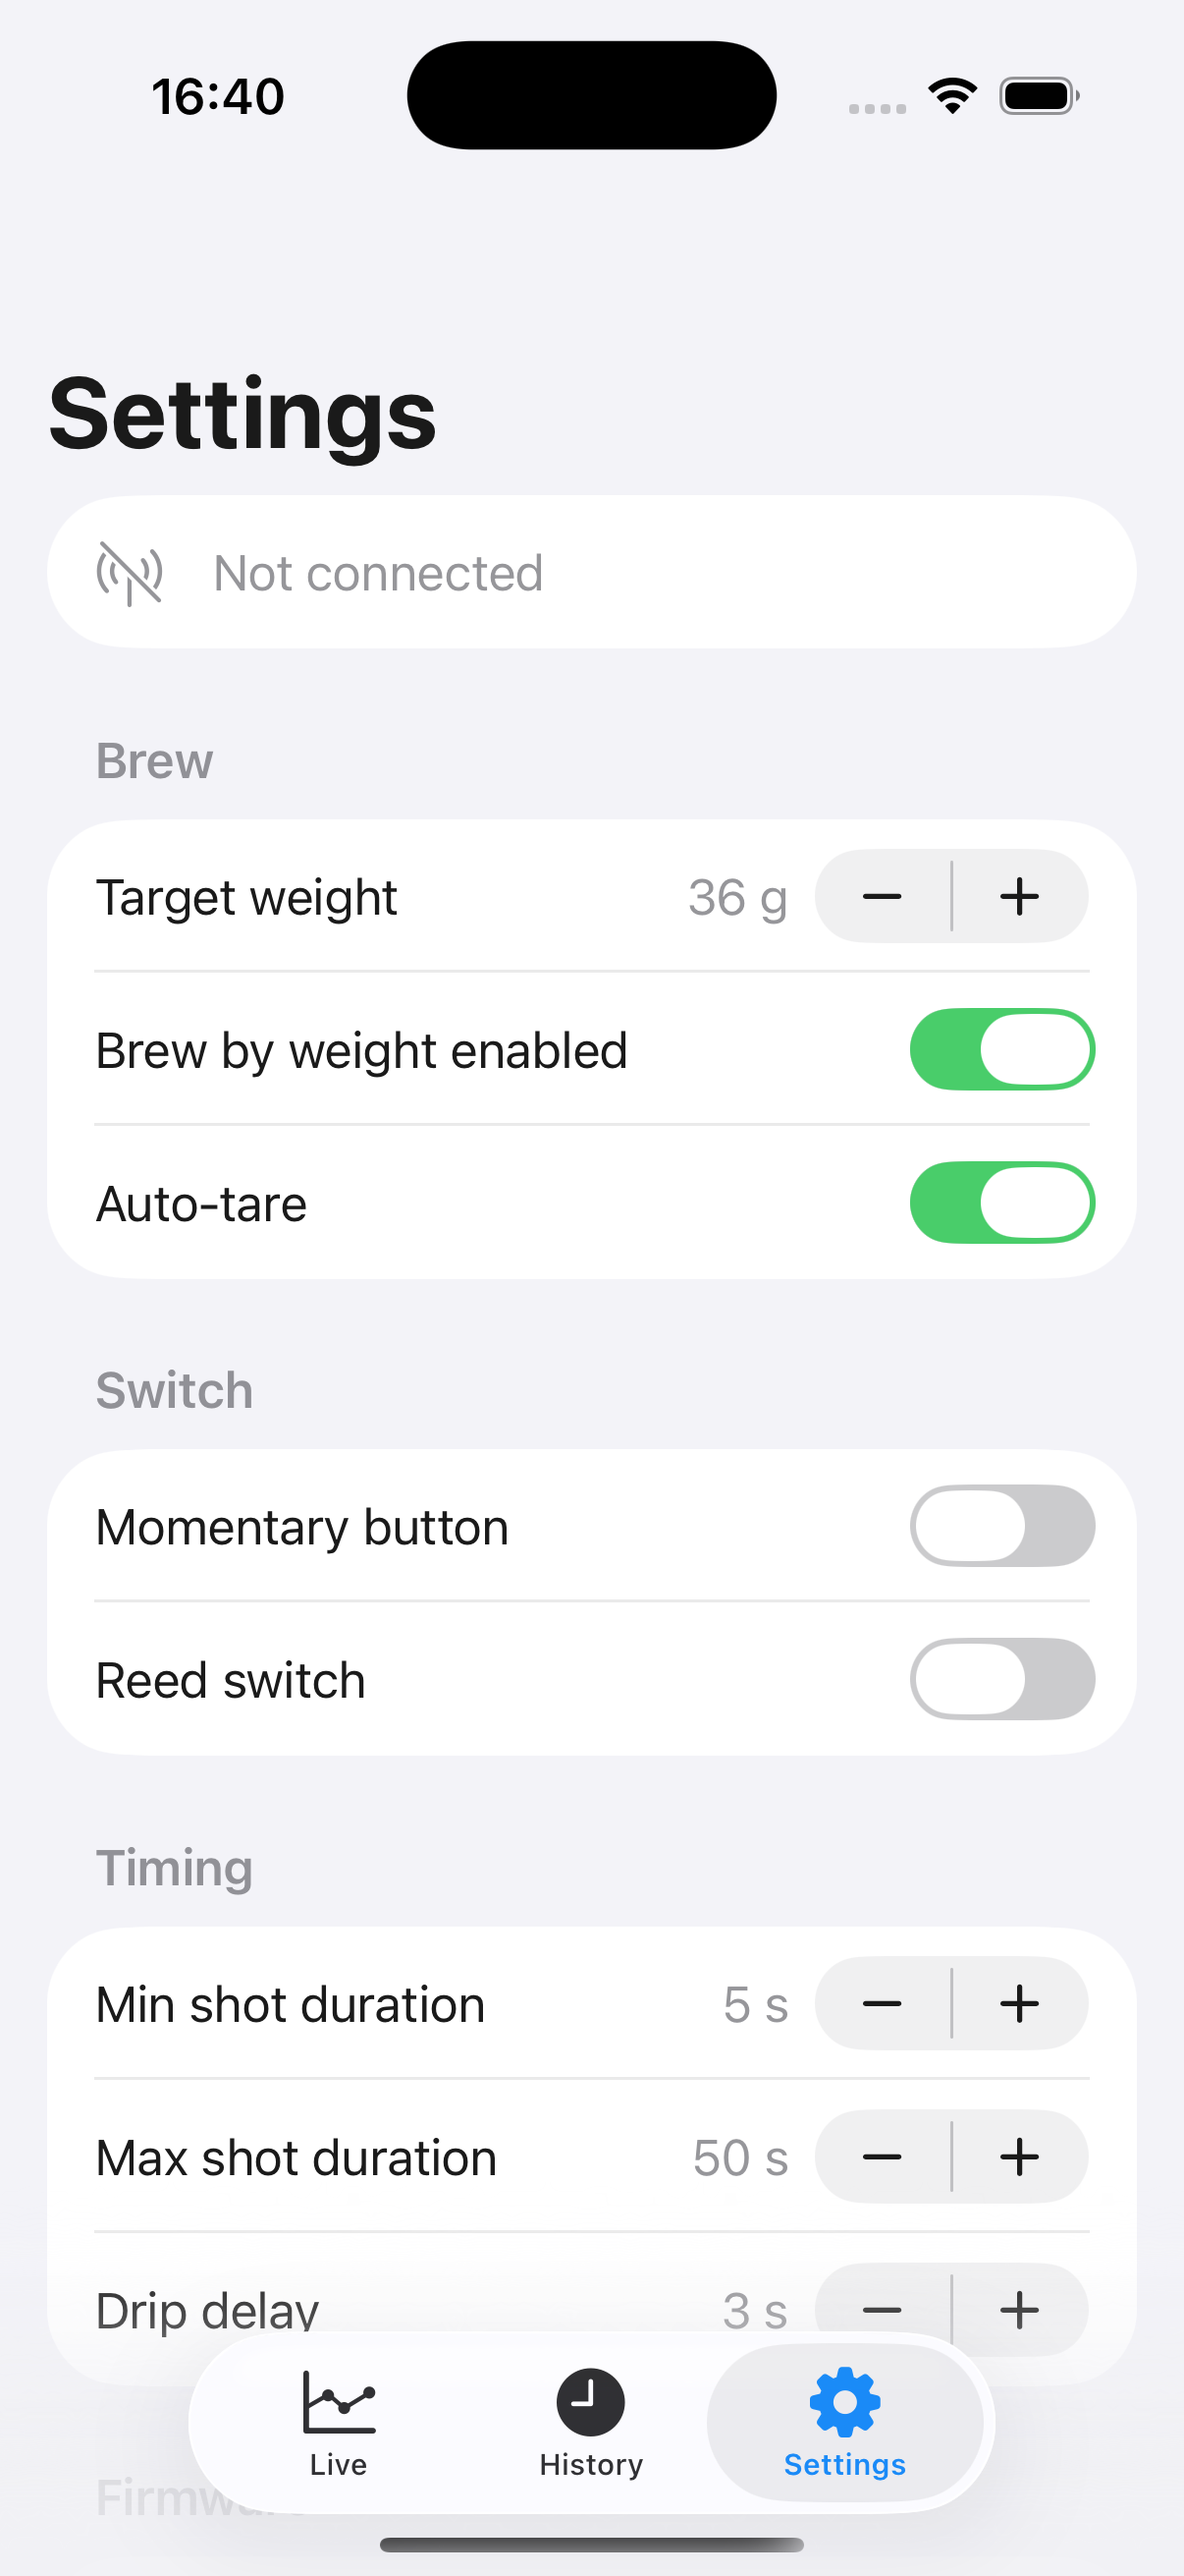
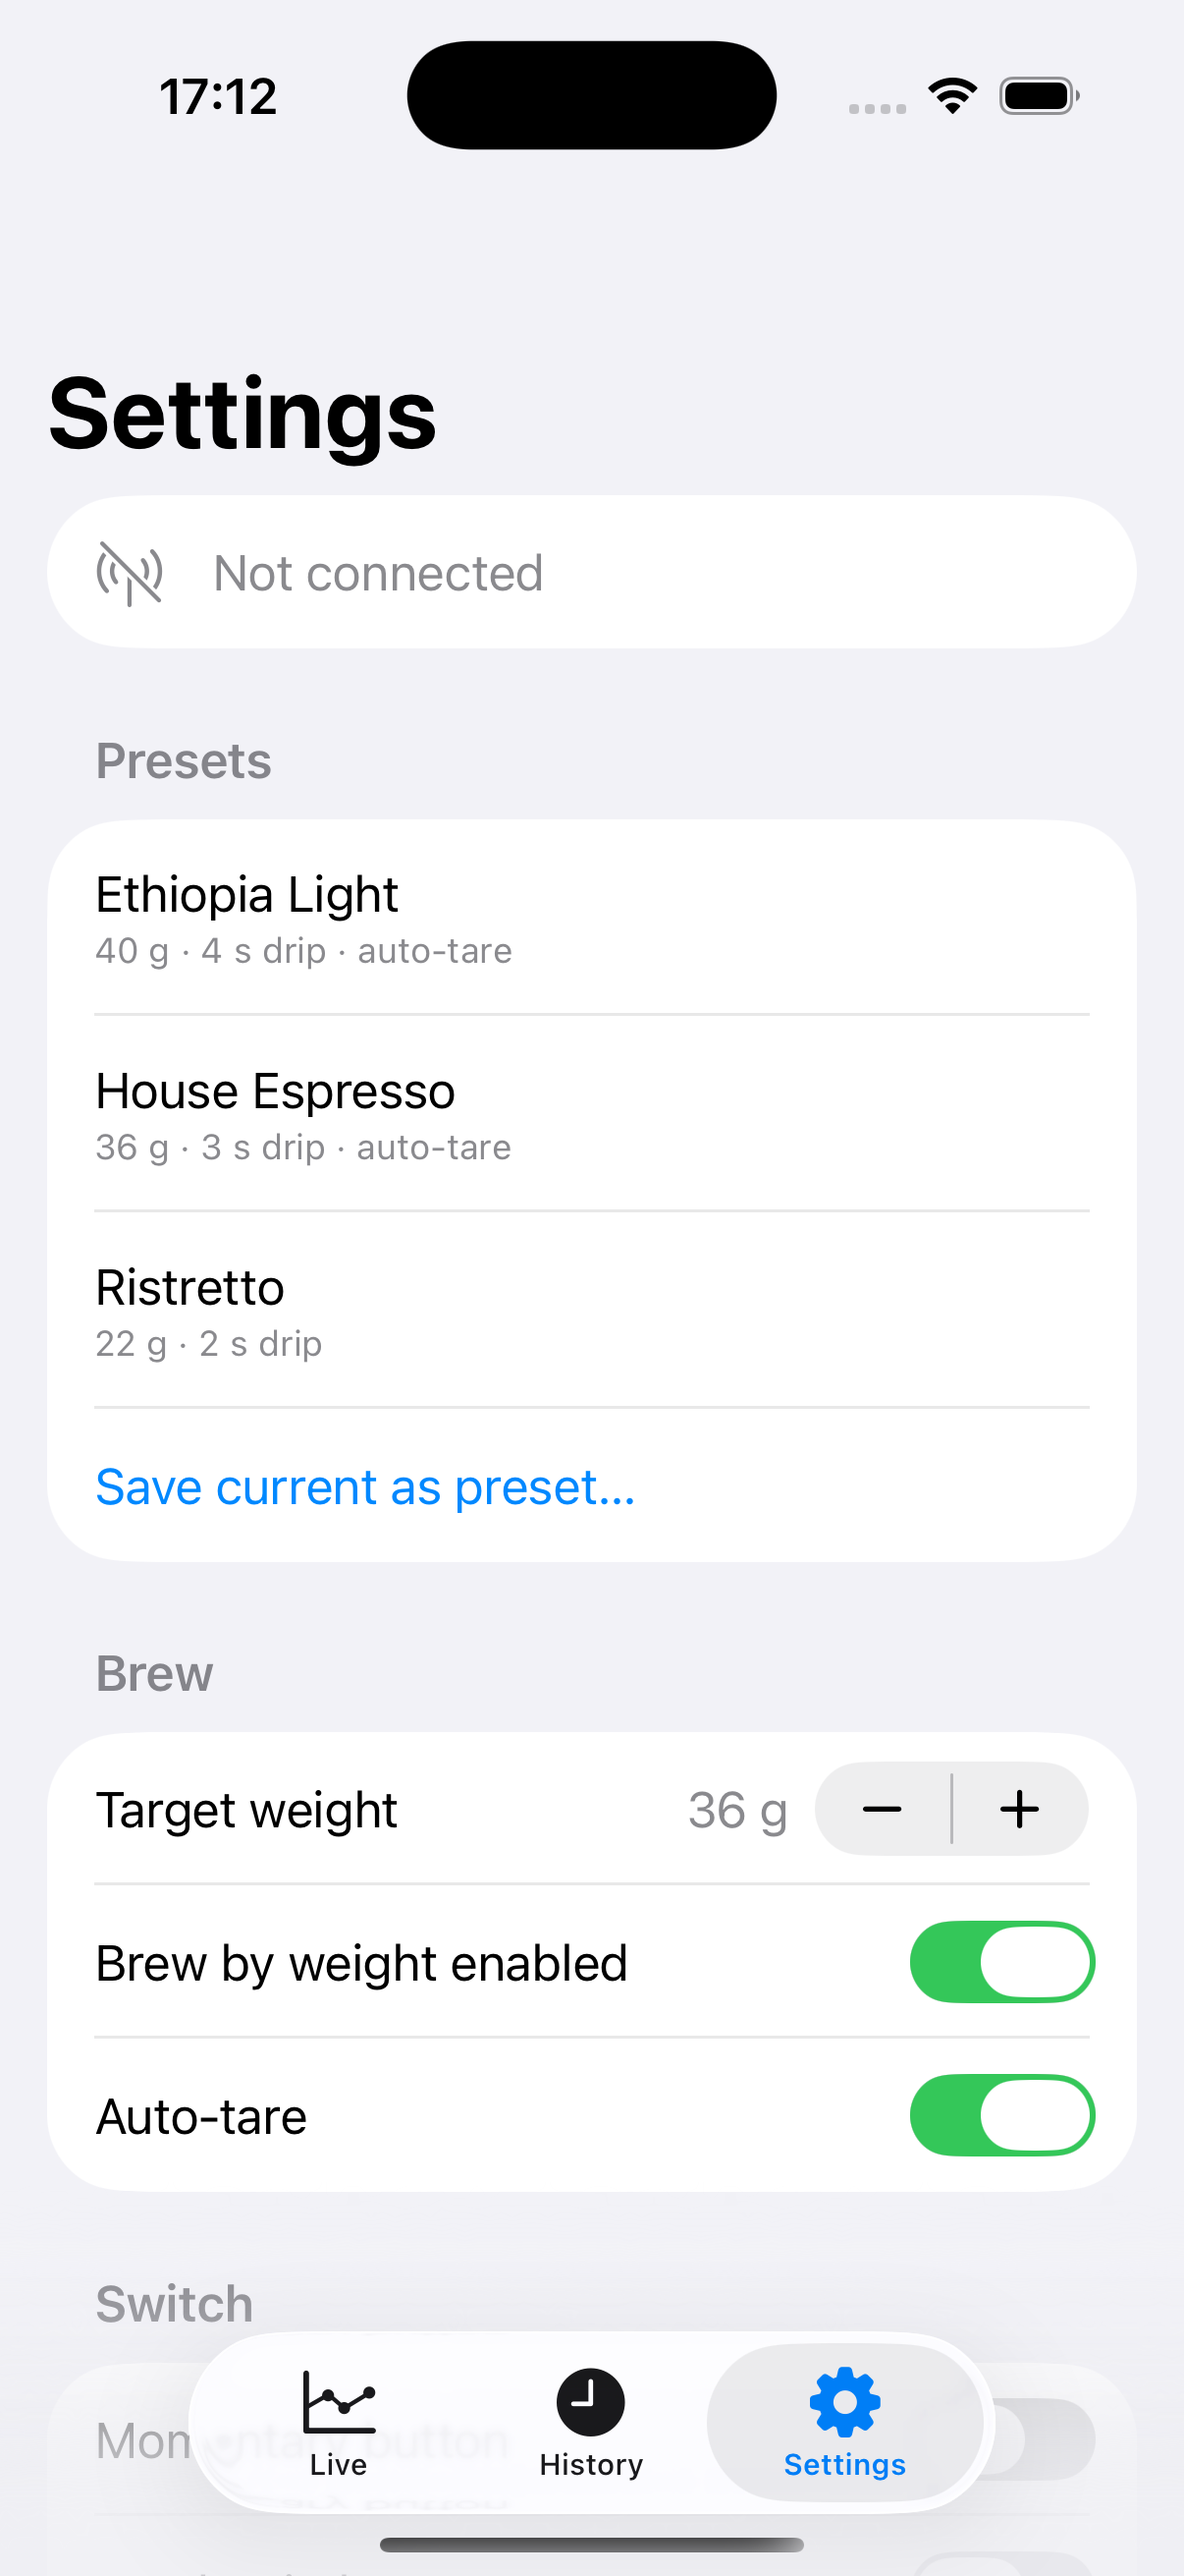
Add named brew presets (dial-in)
A Preset SwiftData model (CloudKit-synced like shots) storing a named bundle
of per-coffee brew settings: target weight, auto-tare, min/max shot duration,
drip delay. In Settings:
- Presets section lists saved presets; tap one to apply it to the device
  (writes each value over BLE).
- "Save current as preset…" names and stores the current config.
- Swipe to delete.

Borrowed from the IRIS remote's recipe presets — the one software feature it
had that we didn't (machine power/temp/steam remain LM-cloud-only, out of scope).

Both targets build; Settings screenshot updated. (First launch after this does
a one-time SwiftData migration to add the Preset model.)

diff --git a/app/ShotStopperTelemetry/SettingsView.swift b/app/ShotStopperTelemetry/SettingsView.swift
@@ -1,10 +1,16 @@
 import SwiftUI
+import SwiftData
 import ShotTelemetryKit
 
 /// Read/write the ShotStopper's configuration over BLE. Changes are written
 /// immediately. Controls are disabled until the device is connected.
 struct SettingsView: View {
     @Environment(AppModel.self) private var model
+    @Environment(\.modelContext) private var context
+    @Query(sort: \Preset.name) private var presets: [Preset]
+
+    @State private var showingSave = false
+    @State private var newPresetName = ""
 
     private var client: ShotStopperClient { model.client }
     private var s: DeviceSettings { client.settings }
@@ -17,6 +23,23 @@ struct SettingsView: View {
                         Label("Not connected", systemImage: "antenna.radiowaves.left.and.right.slash")
                             .foregroundStyle(.secondary)
                     }
+                }
+
+                Section("Presets") {
+                    ForEach(presets) { preset in
+                        Button { apply(preset) } label: {
+                            VStack(alignment: .leading, spacing: 2) {
+                                Text(preset.name)
+                                Text("\(preset.goalWeightG) g · \(preset.dripDelayS) s drip"
+                                     + (preset.autoTare ? " · auto-tare" : ""))
+                                    .font(.caption).foregroundStyle(.secondary)
+                            }
+                        }
+                        .tint(.primary)
+                    }
+                    .onDelete(perform: deletePresets)
+
+                    Button("Save current as preset…") { showingSave = true }
                 }
 
                 Section("Brew") {
@@ -51,7 +74,65 @@ struct SettingsView: View {
             }
             .navigationTitle("Settings")
             .disabled(!interactive)
+            .alert("Save preset", isPresented: $showingSave) {
+                TextField("Name", text: $newPresetName)
+                Button("Save") { savePreset() }.disabled(newPresetName.isEmpty)
+                Button("Cancel", role: .cancel) { newPresetName = "" }
+            } message: {
+                Text("Saves the current target weight, timing and auto-tare under a name.")
+            }
+            .onAppear {
+#if DEBUG
+#if targetEnvironment(simulator)
+                if presets.isEmpty { seedSamplePresets() }
+#endif
+#endif
+            }
         }
+    }
+
+#if DEBUG
+    private func seedSamplePresets() {
+        let samples = [
+            ("House Espresso", 36, true, 3),
+            ("Ethiopia Light", 40, true, 4),
+            ("Ristretto", 22, false, 2),
+        ]
+        for (name, weight, tare, drip) in samples {
+            context.insert(Preset(name: name, createdAt: .now, goalWeightG: weight,
+                                  autoTare: tare, minShotDurationS: 5, maxShotDurationS: 50, dripDelayS: drip))
+        }
+        try? context.save()
+    }
+#endif
+
+    /// Write a preset's values to the device.
+    private func apply(_ preset: Preset) {
+        client.setGoalWeight(UInt8(clamping: preset.goalWeightG))
+        client.setAutoTare(preset.autoTare)
+        client.setMinShotDuration(UInt8(clamping: preset.minShotDurationS))
+        client.setMaxShotDuration(UInt8(clamping: preset.maxShotDurationS))
+        client.setDripDelay(UInt8(clamping: preset.dripDelayS))
+    }
+
+    private func savePreset() {
+        let preset = Preset(
+            name: newPresetName.trimmingCharacters(in: .whitespaces),
+            createdAt: .now,
+            goalWeightG: Int(s.goalWeightG),
+            autoTare: s.autoTare,
+            minShotDurationS: Int(s.minShotDurationS),
+            maxShotDurationS: Int(s.maxShotDurationS),
+            dripDelayS: Int(s.dripDelayS)
+        )
+        context.insert(preset)
+        try? context.save()
+        newPresetName = ""
+    }
+
+    private func deletePresets(_ offsets: IndexSet) {
+        for index in offsets { context.delete(presets[index]) }
+        try? context.save()
     }
 
     /// On device, controls are live only when connected. In the Simulator (no BLE)

diff --git a/app/AppShared/Models.swift b/app/AppShared/Models.swift
@@ -39,6 +39,40 @@ public final class Shot {
     }
 }
 
+/// A named bundle of per-coffee brew settings (dial-in). Applied to the device
+/// over BLE; persisted + CloudKit-synced like shots.
+@Model
+public final class Preset {
+    public var id: UUID = UUID()
+    public var name: String = ""
+    public var createdAt: Date = Date(timeIntervalSince1970: 0)
+    public var goalWeightG: Int = 36
+    public var autoTare: Bool = false
+    public var minShotDurationS: Int = 0
+    public var maxShotDurationS: Int = 50
+    public var dripDelayS: Int = 3
+
+    public init(
+        id: UUID = UUID(),
+        name: String,
+        createdAt: Date,
+        goalWeightG: Int,
+        autoTare: Bool,
+        minShotDurationS: Int,
+        maxShotDurationS: Int,
+        dripDelayS: Int
+    ) {
+        self.id = id
+        self.name = name
+        self.createdAt = createdAt
+        self.goalWeightG = goalWeightG
+        self.autoTare = autoTare
+        self.minShotDurationS = minShotDurationS
+        self.maxShotDurationS = maxShotDurationS
+        self.dripDelayS = dripDelayS
+    }
+}
+
 @Model
 public final class ShotSample {
     public var tMs: Int = 0

diff --git a/app/AppShared/SharedStore.swift b/app/AppShared/SharedStore.swift
@@ -9,7 +9,7 @@ import SwiftData
 /// do/catch is a last resort so the app still launches if the store can't open.
 public enum SharedStore {
     public static func makeContainer() -> ModelContainer {
-        let schema = Schema([Shot.self, ShotSample.self])
+        let schema = Schema([Shot.self, ShotSample.self, Preset.self])
         do {
             let cloud = ModelConfiguration(schema: schema, cloudKitDatabase: .automatic)
             return try ModelContainer(for: schema, configurations: cloud)

diff --git a/app/screenshots/README.md b/app/screenshots/README.md
@@ -11,7 +11,7 @@ device name and live data). Shot data here is from the built-in demo simulator.
 | `ios-2-live-pour.png` | iPhone · Live (recording) | Mid-pour: live readouts, red REC indicator, weight curve building toward the dashed target line. |
 | `ios-3-history.png` | iPhone · History | List of saved shots (date · final weight · duration · target). Toolbar: Export (share) + DEBUG "Add Samples". |
 | `ios-4-detail-export.png` | iPhone · Shot detail | Weight-vs-time curve with dashed target line, summary grid, Export CSV / Export JSON buttons. |
-| `ios-5-settings.png` | iPhone · Settings | Read/write machine config over BLE: target weight, toggles, durations. (Disabled until connected on hardware.) |
+| `ios-5-settings.png` | iPhone · Settings | Named presets (dial-in), then read/write machine config over BLE: target weight, toggles, durations. (Disabled until connected on hardware.) |
 | `ios-6-ota.png` | iPhone · Firmware OTA | Send WiFi + start OTA mode, then pick a .bin from Files / iCloud Drive and upload it to the device in-app (web-uploader fallback also shown). |
 | `watch-1-idle.png` | Watch · Kiosk (idle) | Big weight readout, compact time/flow/target row, chart. Strapless on the machine as an always-on display. |
 | `watch-2-pour.png` | Watch · Kiosk (recording) | Live pour: big weight, stats row, curve building to the target line. |

diff --git a/app/README.md b/app/README.md
@@ -15,7 +15,7 @@ app/
 │   ├── LiveShotView.swift              live weight chart + readouts
 │   ├── ShotHistoryView.swift           @Query list + "Export all" (combined CSV/JSON)
 │   ├── ShotDetailView.swift            saved-shot chart + CSV/JSON export
-│   ├── SettingsView.swift              read/write machine config over BLE
+│   ├── SettingsView.swift              named presets + read/write machine config over BLE
 │   ├── OTAView.swift                   firmware OTA: pick a .bin from Files, upload in-app
 │   ├── Info.plist                      ATS local-networking + local-network usage (for OTA upload)
 │   └── ShotStopperTelemetry.entitlements   iCloud/CloudKit container
